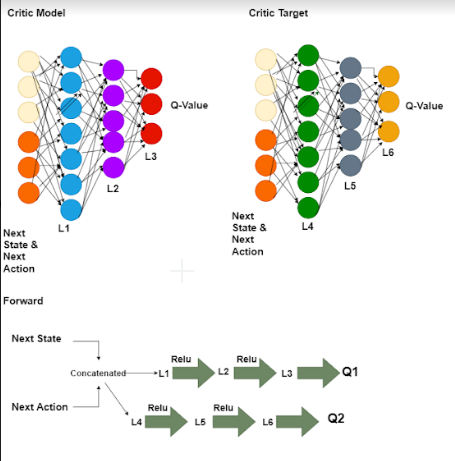
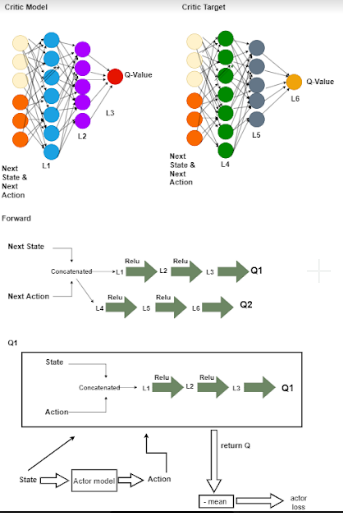
changed images

Changed region(s): [[0.0, 0.6377, 1.0, 1.0], [0.2624, 0.0, 0.9913, 0.6377], [0.0, 0.0, 0.4665, 0.6074]]

diff --git a/README.md b/README.md
@@ -70,7 +70,7 @@ Build a Model for Actor Model and Actor Target. As we are building the same mode
 
 Look at the third line of the forward function which takes the x value and apply the tanh function to keep it between -1 and +1 and then multiplying that with the max action which helps them to take exactly the same angle.
 
-![](Images/step\_2.png)
+![](Images/step_2.png)
 
 Step3
 
@@ -122,7 +122,7 @@ max\_action  - Not required as it&#39;s going to come from
 
 
 
-![](Images/T3D\_net.png)
+![](Images/T3D\_net(new).png)
 
 Step-4
 
